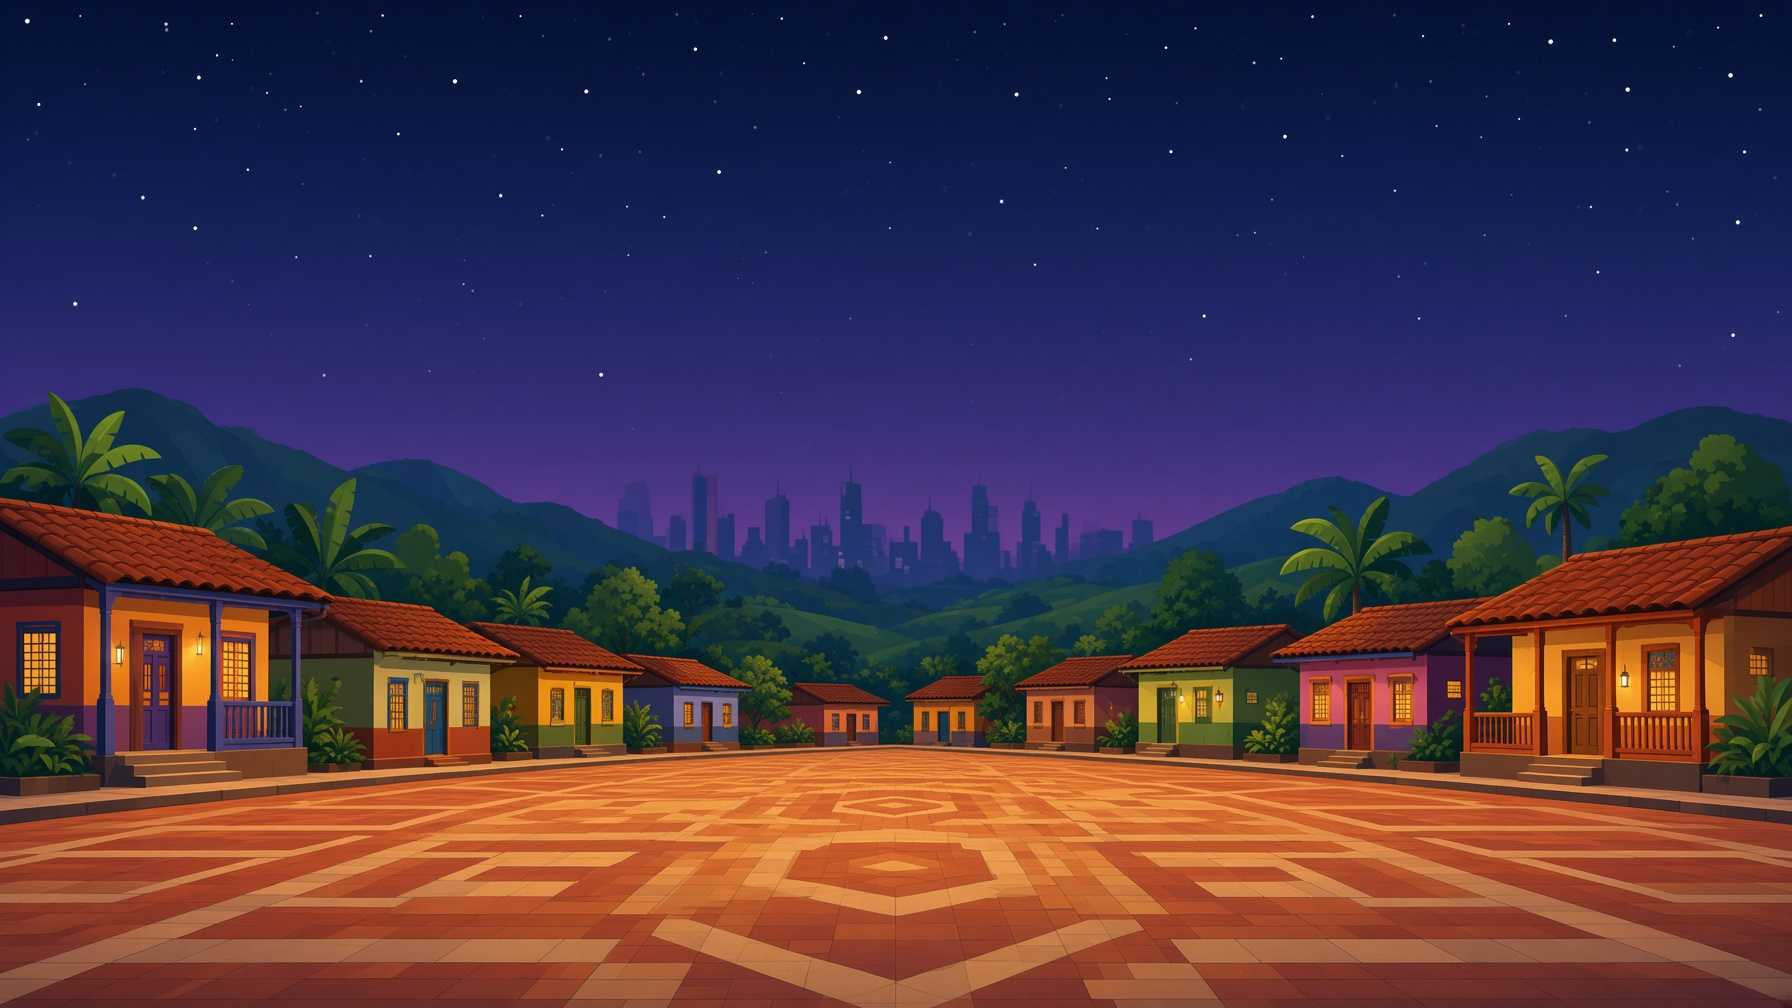
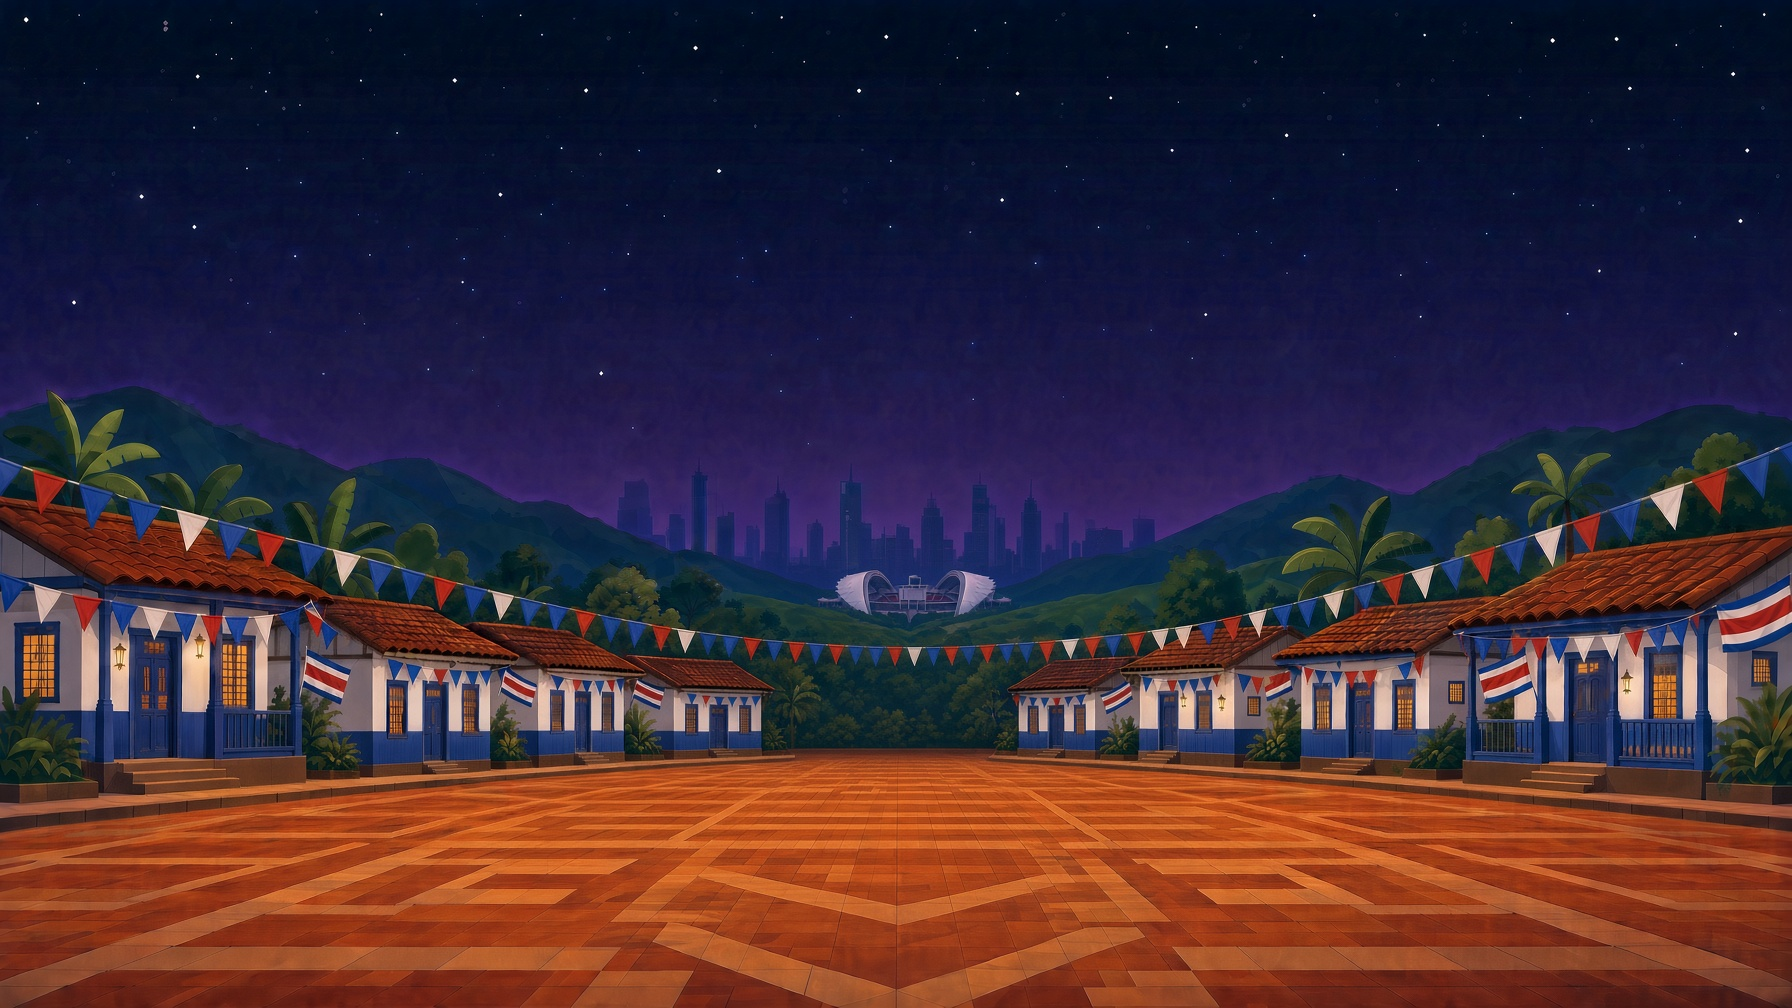
cambio fondo

diff --git a/src/parade/engine.ts b/src/parade/engine.ts
@@ -77,7 +77,8 @@ const VARIANTS: SpriteMeta[] = [
     hand: { x: 0.636, y: 0.804 },
     poleDir: { x: 0.089, y: -0.996 },
     footF: 0.916,
-    poleLen: 0.92, // la niña agarra el palo mas abajo; sube mas el farol para que no le tape la cara
+    poleLen: 1.16, // la niña sostiene el palo largo; el farol se apoya en la PUNTA del palo,
+    //                justo encima de su cabeza -> asi no le tapa la cara y no queda flotando suelto
     gait: 0.12, //   piernas casi tapadas por la falda: vaiven corto
     // El PNG de la niña trae las piernas en postura muy abierta: el pie derecho
     // cae en x~0.757 (fuera del ruedo, que llega a ~0.71) y el izquierdo en
